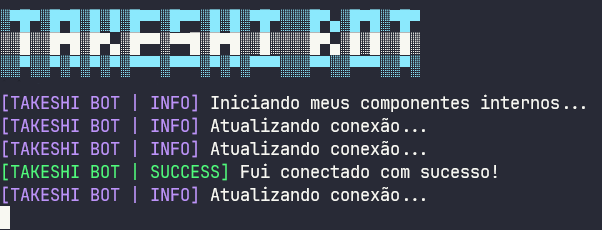
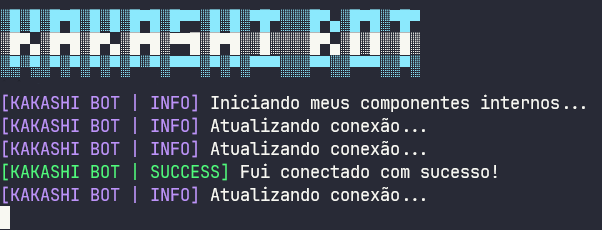
chore(rebrand): remove resíduos do Takeshi/Dev Gui e atualiza para Oracle Cloud
- README: substitui a secção de hosts do Brasil por Oracle Cloud e corrige
  uma frase truncada em 'Segredos'
- AGENTS.md: secção de hosting passa a referir o Oracle Cloud
- assets/images: reescreve os textos 'Takeshi'/'guiireal' das capturas
  (erro-comum-2, logger, phone-termux, tutorial-vps-1/2/7/8/9)
- assets/samples: corrige o texto das imagens de exemplo para 'KAKASHI BOT'
- assets/images: remove os logótipos das hosts que já não são referidas
- src/config.js: legenda das figurinhas passa a '⋆｡°✩ Feito por Dev Yanik ✩°｡⋆'
- src/utils/logger.js: banner passa a desenhar 'KAKASHI BOT'

diff --git a/src/utils/logger.js b/src/utils/logger.js
@@ -95,8 +95,8 @@ export function warningLog(message) {
 }
 
 export function bannerLog() {
-  console.log(`\x1b[36m░▀█▀░█▀█░█░█░█▀▀░█▀▀░█░█░▀█▀░░█▀▄░█▀█░▀█▀\x1b[0m`);
-  console.log(`░░█░░█▀█░█▀▄░█▀▀░▀▀█░█▀█░░█░░░█▀▄░█░█░░█░`);
-  console.log(`\x1b[36m░░▀░░▀░▀░▀░▀░▀▀▀░▀▀▀░▀░▀░▀▀▀░░▀▀░░▀▀▀░░▀░\x1b[0m`);
+  console.log(`\x1b[36m░█░█░█▀█░█░█░█▀█░█▀▀░█░█░▀█▀░░█▀▄░█▀█░▀█▀\x1b[0m`);
+  console.log(`░█▀▄░█▀█░█▀▄░█▀█░▀▀█░█▀█░░█░░░█▀▄░█░█░░█░`);
+  console.log(`\x1b[36m░▀░▀░▀░▀░▀░▀░▀░▀░▀▀▀░▀░▀░▀▀▀░░▀▀░░▀▀▀░░▀░\x1b[0m`);
   console.log(`\x1b[36m🤖 Versão: \x1b[0m${pkg.version}\n`);
 }

diff --git a/src/config.js b/src/config.js
@@ -17,7 +17,7 @@ export const BOT_NAME = "Kakashi Bot";
 // mostra ao ver o pacote). Aparece por baixo do nome de quem criou a figurinha.
 export const STICKER_PACK_PUBLISHER =
   process.env.STICKER_PACK_PUBLISHER ||
-  "✦ ☄ Constelado por Dev Yanik 🪐 ✦";
+  "⋆｡°✩ Feito por Dev Yanik ✩°｡⋆";
 
 // LID do bot (no caso, o que você rodará o bot).
 // Para obter o LID do bot, use o comando <prefixo>lid respondendo em cima de uma mensagem do número do bot

diff --git a/README.md b/README.md
@@ -32,7 +32,8 @@ mensagem clara em vez de falhar.
 Isto não é só organização: este repositório é **público**, e o GitHub revoga
 sozinho qualquer token que encontre num ficheiro versionado de um repositório
 público. Foi o que aconteceu ao token que estava em `src/config.js` — o `.backup`
-passou a responder HTTP 401 porque a credencial já tinha sido revogada. O
+passou a responder HTTP 401 porque a credencial já tinha sido revogada.
+
 Qualquer uma delas pode ser definida pelo WhatsApp, sem mexer no código: use
 `.api-keys` para ver o estado e os comandos, ou `.set-github-token`,
 `.set-spider-api-token`, `.set-linker-api-token`, `.set-groq-api-token`,
@@ -608,26 +609,13 @@ export const OWNER_LID = "12345678901234567890@lid";
 npm start
 ```
 
-## Instalação nas principais hosts do Brasil
+## Instalação no Oracle Cloud
 
-As principais hosts já oferecem o Kakashi como **bot padrão**, não sendo necessário nenhuma instalação manual!
-
-**Hosts suportadas**:
-
-| Bronxys | NexFuture | Speed Cloud |
-|---------|-----------|-------------|
-| [Grupo oficial](https://chat.whatsapp.com/HWeFfnUNR2mBGEw3F9GF5G) | [Grupo oficial](https://chat.whatsapp.com/Fl5FzZQC00J5CZp07AZVwQ?mode=r_c) | [Grupo oficial](https://chat.whatsapp.com/HsZDn6DJrx34z5lbNbNB2M) |
-| [![Bronxys](./assets/images/bronxys.png)](https://bronxyshost.com/) | [![NexFuture](./assets/images/nexfuture.png)](https://nexfuture.com.br/) | [![Speed Cloud](./assets/images/speed-cloud.png)](https://speedhosting.cloud/) |
-
-| TED Host | Cebolinha Host | Lumina Cloud |
-|----------|----------------|--------------|
-| [Grupo oficial](https://chat.whatsapp.com/I4EpMkbeaxCI4z4gQ3Pdif) | [Grupo oficial](https://chat.whatsapp.com/CCf2Pw9guan12orwGg0TqC?mode=gi_t) | [Grupo oficial](https://chat.whatsapp.com/DRfvf9SfekaAAFCIR8lGbj) |
-| [![TED Host](./assets/images/ted-host.png)](https://loja.tedhost.com.br/) | [![Cebolinha Host](./assets/images/cebolinha-host.jpeg)]( https://dash.cebolinhahost.com) | [![Lumina Cloud](./assets/images/lumina-logo.png)](https://loja.luminacloud.space/) |
-
-| Raikken Host | LordeHost | Jexa for Developers |
-|--------------|-----------|---------------------|
-| [Grupo oficial](https://chat.whatsapp.com/BzSDYUHbjHGF6gQmJfh2C7?mode=gi_t) | [Grupo oficial](https://chat.whatsapp.com/ENkfT9rjBnG2sCJRp48hhb) | [Grupo oficial](https://chat.whatsapp.com/EDWFGZVri3gEaW2HJxK4YV) |
-| [![Raikken](./assets/images/raikken-host.png)](https://painel.raikken.com.br) | [![LordeHost](./assets/images/lordehost.jpeg)](https://lordehost.com.br) | [![Jexa for Developers](./assets/images/jexa-for-developers.png)](https://devs.jexa.lat/) |
+O Kakashi corre no Oracle Cloud (instância ARM Ampere). O guia de instalação em
+VPS Debian/Ubuntu abaixo serve para o Oracle Cloud; basta abrir as portas
+necessárias na lista de segurança da instância e montar um volume persistente
+para `database/` e `assets/auth/baileys/` (ver
+[Persistência entre deploys](#persistência-entre-deploys-volume)).
 
 ## Instalação no Windows
 

diff --git a/AGENTS.md b/AGENTS.md
@@ -1017,18 +1017,20 @@ Rules:
 - to fix an upstream change, update the anchor or replacement in the single script and
   rerun `npm run patch:baileys`
 
-## HOSTING_AND_PTERODACTYL
+## HOSTING
 
-The project README currently highlights the supported hosts in its installation section.
-Treat `README.md` as the source of truth for host names and links.
+The bot now runs on **Oracle Cloud** (ARM Ampere instance). `README.md` is the
+source of truth for the installation steps; the VPS Debian/Ubuntu guide applies
+directly to an Oracle Cloud instance.
 
 Installation tutorials stay in `README.md`.
 
-If the topic is about hosting, VPS setup, startup configuration, schedules, SFTP, Pterodactyl panel usage, or backup flow, agents should also load:
+If the topic is about hosting, VPS setup, startup configuration, schedules, SFTP, panel usage, or backup flow, agents should also load:
 
 - `.agents/skills/pterodactyl-specialist/SKILL.md`
 
-That skill is the specialized source for Pterodactyl guidance.
+That skill is the specialized source for panel guidance (it still applies to any
+Pterodactyl-style panel).
 
 ## STABILITY_AND_ERRORS
 
